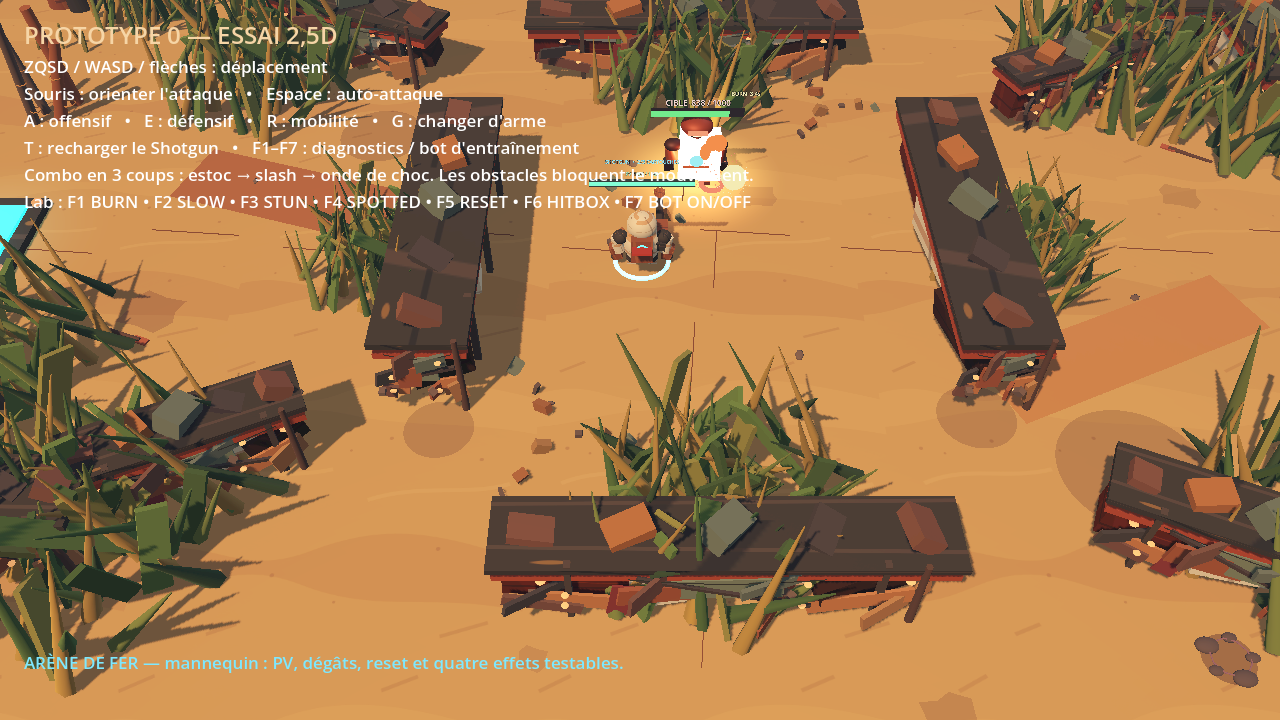
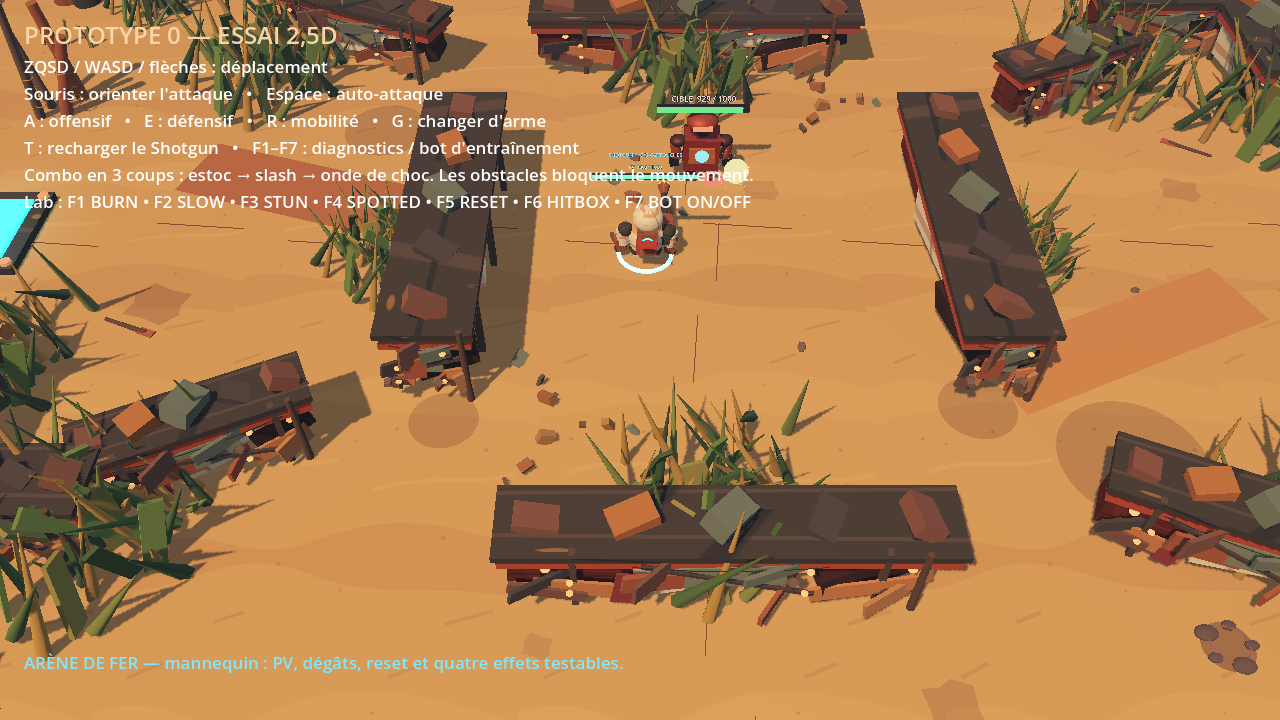
Add robot locomotion and weapon animation pass

diff --git a/README.md b/README.md
@@ -157,11 +157,21 @@ visibilité, avant leur passe de carte jouable.
   la même grammaire visuelle. Les bushs
   passent à des touffes de hautes herbes denses avec des lames larges, une zone de cachette
   cohérente et davantage de variation de silhouette.
+- **P0-116 — passe animation :** les deux robots disposent maintenant d'une locomotion
+  mécanique légère (balancement du corps, tête et membres alternés) pilotée par leur vitesse
+  réelle, sans modifier leurs collisions. Les armes ont une respiration en attente ; le
+  shotgun ajoute recul du robot, recul du canon, rotation de pompage, flash et secousse
+  caméra, tandis que l'Electro Axe conserve ses poses d'estoc, de cleave et de slam avec un
+  mouvement d'attente cohérent. Les bushs ont été réduits en volume pour rouvrir les lignes
+  de combat tout en gardant une couverture visuelle dense.
+- **Vérifications :** `tools/test_shotgun.gd`, `tools/test_training_bot.gd`,
+  `tools/test_electro_axe.gd`, `tools/test_target_dummy.gd`, `tools/test_visibility.gd` et
+  `tools/test_offensive_modules.gd` PASS après cette passe.
 - **À vérifier ensuite :** test manuel du Shotgun avec G/T, du module offensif avec A et
   de la mobilité avec R, puis du défensif avec E, du passif équipé et des hautes herbes.
-  Le mannequin reste passif tant que F7 est désactivé. Prochaine tâche : **P0-116 —
-  faire une vérification manuelle ciblée du shotgun en jeu et ajuster ses proportions
-  après retour visuel, puis ajouter une télégraphie secondaire au bot si nécessaire.
+  Le mannequin reste passif tant que F7 est désactivé. Prochaine tâche : **P0-117 —
+  vérification manuelle des poses de locomotion et ajustement fin des timings d'armes si
+  nécessaire, puis télégraphie secondaire du bot.
 
 ## Captures de validation
 
